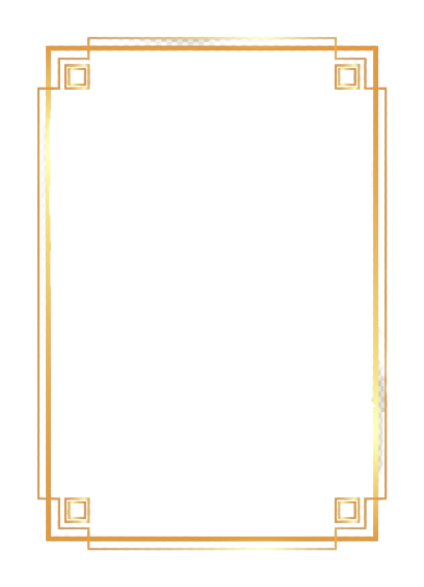
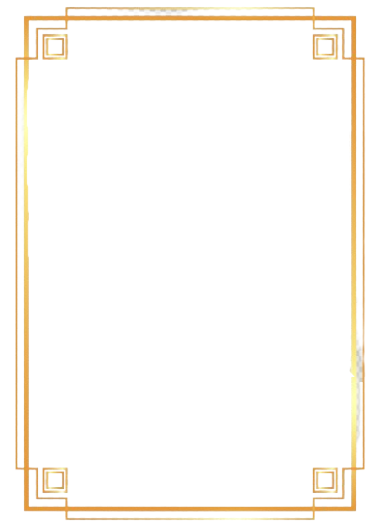
added sculpture image frame

Changed region(s): [[0.0289, 0.0, 0.9842, 1.0]]

diff --git a/src/components/Card.jsx b/src/components/Card.jsx
@@ -6,52 +6,39 @@ import { useNavigate } from "react-router-dom";
 
 
 const StyledCard = styled.div`
+
   display: flex;
   align-items: center;
   border: 1px solid #B19470;
   border-radius: 5px;
   box-shadow: 5px 5px 5px 0px lightgray;  
-  padding: 10px;
+  padding: 2%;
   margin: 10px;
-  gap: 10px;
   width: 80vw;
   box-sizing: content-box;
   max-width: 550px;
+
   @media screen and (max-width: 768px) {
     width: 420px;
+    padding-right: 2%;
   }
   @media screen and (max-width: 480px) {
-    gap: 5px;
-    max-width: 320px;
+    width: 320px;
   }
 
   @media screen and (max-width: 360px) {
-    gap: 5px;
-    max-width: 250px;
+    width: 250px;
   }
 `
+const SculptureImage = styled.div`
+  width: 100%;
+  display: flex;
+`
 
-const SculptureImage = styled.img`
-  min-width: 260px;
-  height: 320px;
+const Frame = styled.img`
+  width: 100%;
+  aspect-ratio: 5/7.2;
   object-fit: cover;
-  border-radius: 10px;
-  margin: 0;
-
-  @media screen and (max-width: 768px) {
-    min-width: 200px;
-    height: 250px;
-  }
-
-  @media screen and (max-width: 480px) {
-    min-width: 160px;
-    height: 220px;
-  }
-
-  @media screen and (max-width: 360px) {
-    min-width: 120px;
-    height: 180px;
-  }
 `
 
 const MoreDetails = styled.div`
@@ -62,17 +49,16 @@ const MoreDetails = styled.div`
 
 const Card = ({ data }) => {
   const { id, imageUrl, title, author, material, year, location } = data;
-  const navigate = useNavigate()
+  const navigate = useNavigate();
 
   return (
     <StyledCard key={id}>
+      <SculptureImage style={{background: `url(${imageUrl}) center/cover no-repeat`}}>
+        <Frame src='src/assets/frame.png' alt={title} />
+      </SculptureImage>
 
-      <SculptureImage src={imageUrl} alt={title} />
-      {/*     <img src={'src/assets/frame.png'} className="sculpture-frame"></img> */}
-
-      <div style={{ display: "flex", flexDirection: "column", justifyContent: "space-between", width: "100%", height: "100%"}}>
-        
-        <section style={{ padding: "10px" }}>
+      <div style={{ display: "flex", flexDirection: "column", justifyContent: "space-between", width: "100%", height: "86%", margin: '0 3% 0'}}>
+        <section>
           
           <h3>{title}</h3>
           
@@ -86,7 +72,7 @@ const Card = ({ data }) => {
         
         </section>
         
-        <div style={{ display: "flex", flexWrap: "wrap", justifyContent: "center", margin: "10px", gap: "5px" }}>
+        <div style={{ display: "flex", flexWrap: "wrap", justifyContent: "center", gap: "5%"}}>
         
 
             <button onClick={() => navigate(`/edit-sculpture/${id}`)} className="button" style={{ backgroundColor: "#000000" }}>Modificar</button>

diff --git a/src/index.css b/src/index.css
@@ -13,6 +13,17 @@ body {
 
 h2 {
     font-size: 36px;
+    margin: 0;
+    display: flex;
+    flex-direction: column;
+    gap: 10px;
+    margin: 15px;
+}
+
+.circulos {
+    position: absolute;
+    margin-left: 320px;
+    width: 90px;
 }
 
 h3 {
@@ -30,6 +41,7 @@ h3 {
     cursor: pointer;
     font-size: 16px;
     min-width: 120px;
+    margin: 2% 0;
 }
 
 .button:hover {
@@ -47,18 +59,27 @@ h3 {
 
     h3 {
         font-size: 24px;
-
+        text-align: center;
     }
 
     h4 {
-        margin-bottom: 0;
+        margin: 8% 0 0;
+        text-align: center;
     }
 }
 
 @media only screen and (max-width : 480px) {
+    .circulos {
+        position: absolute;
+        margin-left: 240px;
+        width: 70px;
+    }
+
     .button {
         font-size: 12px;
         min-width: 100px;
+        border-radius: 16px;
+        padding: 8px 12px;
     }
 
     h2 {
@@ -66,13 +87,39 @@ h3 {
     }
 
     h3 {
-        text-align: center;
         font-size: 20px;
     }
 
     h4 {
-        text-align: center;
         font-size: 14px;
+
+    }
+}
+
+@media only screen and (max-width : 360px) {
+    .circulos {
+        position: absolute;
+        margin-left: 180px;
+        width: 60px;
+    }
+    
+    .button {
+        font-size: 10px;
+        min-width: 76px;
+        border-radius: 12px;
+        padding: 6px 12px;
+    }
+
+    h2 {
+        font-size: 20px;
+    }
+
+    h3 {
+        font-size: 16px;
+    }
+
+    h4 {
+        font-size: 12px;
 
     }
 }

diff --git a/src/pages/Home.jsx b/src/pages/Home.jsx
@@ -6,7 +6,7 @@ import Card from "../components/Card";
 const Home = () => {
 
   const sculptures = useLoaderData();
-
+  
   /* const [sculptures, setSculptures] = useState([]);
 
   useEffect(() => {
@@ -27,11 +27,11 @@ const Home = () => {
 
   return (
     <>
-      <img style={{position: "absolute", marginLeft: "50%", width: "80px"}} src="src\assets\circulos.png" alt="../" />
-      <h2 style={{ display: "flex", flexDirection: "column", gap: "10px", margin: "20px" }}>Esculturas
+      <img className="circulos" src="src\assets\circulos.png" alt="cirulos" />
+      <h2>Esculturas
         <span style={{ fontWeight: "lighter", textAlign: "center" }}>que Inspiran</span>
         Explorando la Belleza </h2>
-      <Link to="/add-sculpture"><button className="button" style={{ backgroundColor: "#43766C", marginBottom: "20px" }}>Agregar Escultura</button></Link>
+      <Link to="/add-sculpture"><button className="button" style={{ backgroundColor: "#43766C", margin: '10px' }}>Agregar Escultura</button></Link>
       <div style={{ display: "flex", flexWrap: "wrap", justifyContent: "center" }}>
         {/* Renderizar las tarjetas con los datos de la API */}
         {sculptures.map((sculpture) => (

diff --git a/src/components/NavFooter.jsx b/src/components/NavFooter.jsx
@@ -29,7 +29,7 @@ const Main = styled.main`
   display: flex;
   flex-direction: column;
   align-items: center;
-  padding: 20px 0;
+  padding: 30px 0;
   min-height: 70vh;
   @media screen and (max-width: 767px) {
     min-height: 80vh;
